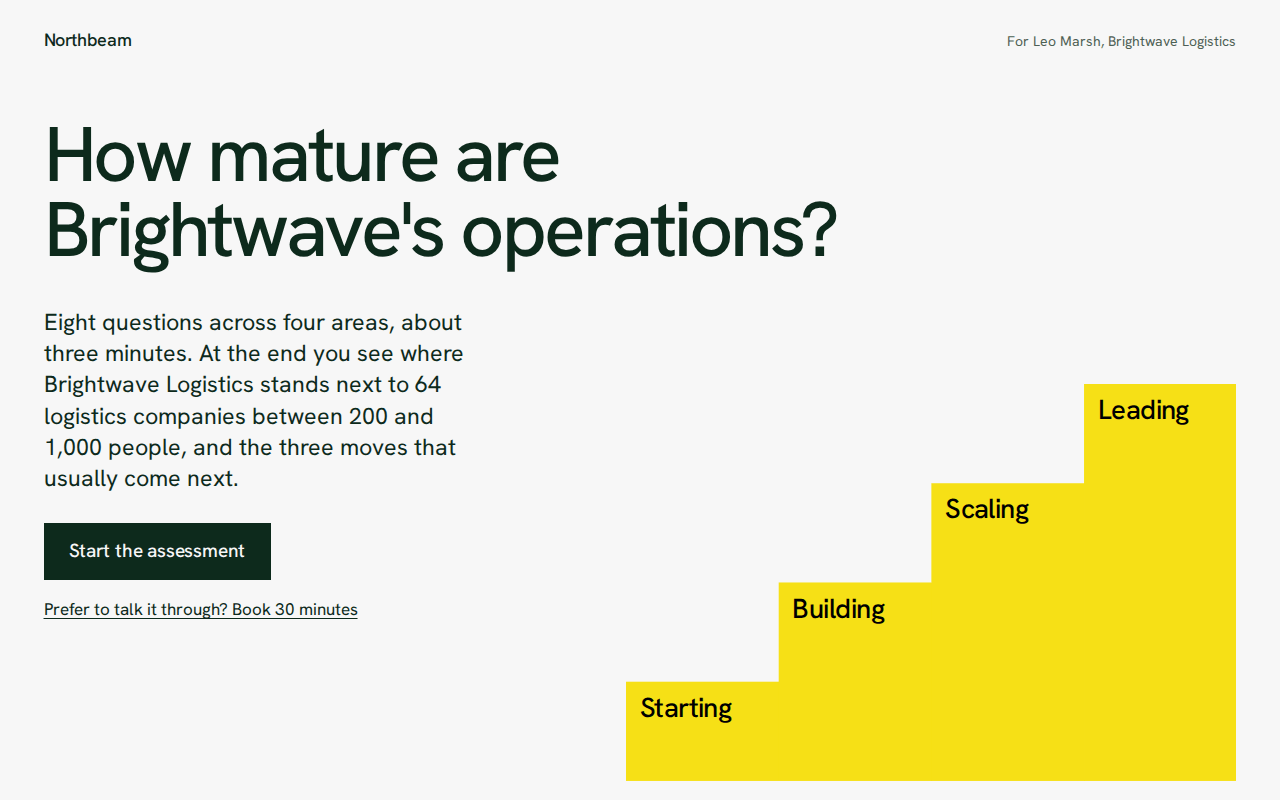
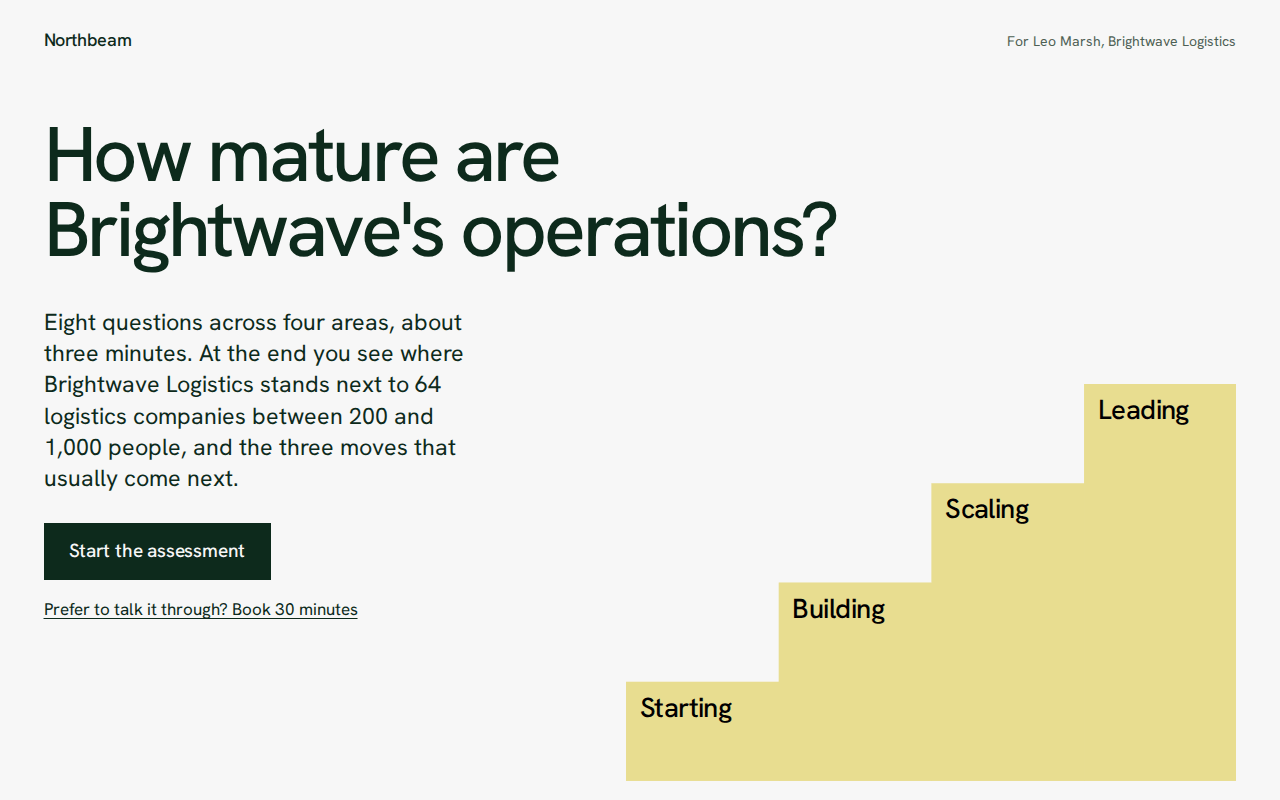
Library colour pass: maturity-assessment, softer yellow stair
Default primary #f6e016 (OKLCH C 0.185) to #e8dd90 (C 0.098, same hue): the stair is a large field, so it sits under the 0.10 cap.

Changed region(s): [[0.4688, 0.4688, 0.9688, 1.0]]

diff --git a/starters/maturity-assessment/preview/brightwave.html b/starters/maturity-assessment/preview/brightwave.html
@@ -9,7 +9,7 @@
 <script defer src="https://cdn.jsdelivr.net/npm/@alpinejs/csp@3/dist/cdn.min.js"></script>
 <style>
 :root{
-  --p:#f6e016;
+  --p:#e8dd90;
   --s:#0d2a1c;
   --on-p:#0d2a1c;
   --on-p:color(from var(--p) xyz-d65 clamp(0,(.18 - y) * 1000000,.9505) clamp(0,(.18 - y) * 1000000,1) clamp(0,(.18 - y) * 1000000,1.089));
